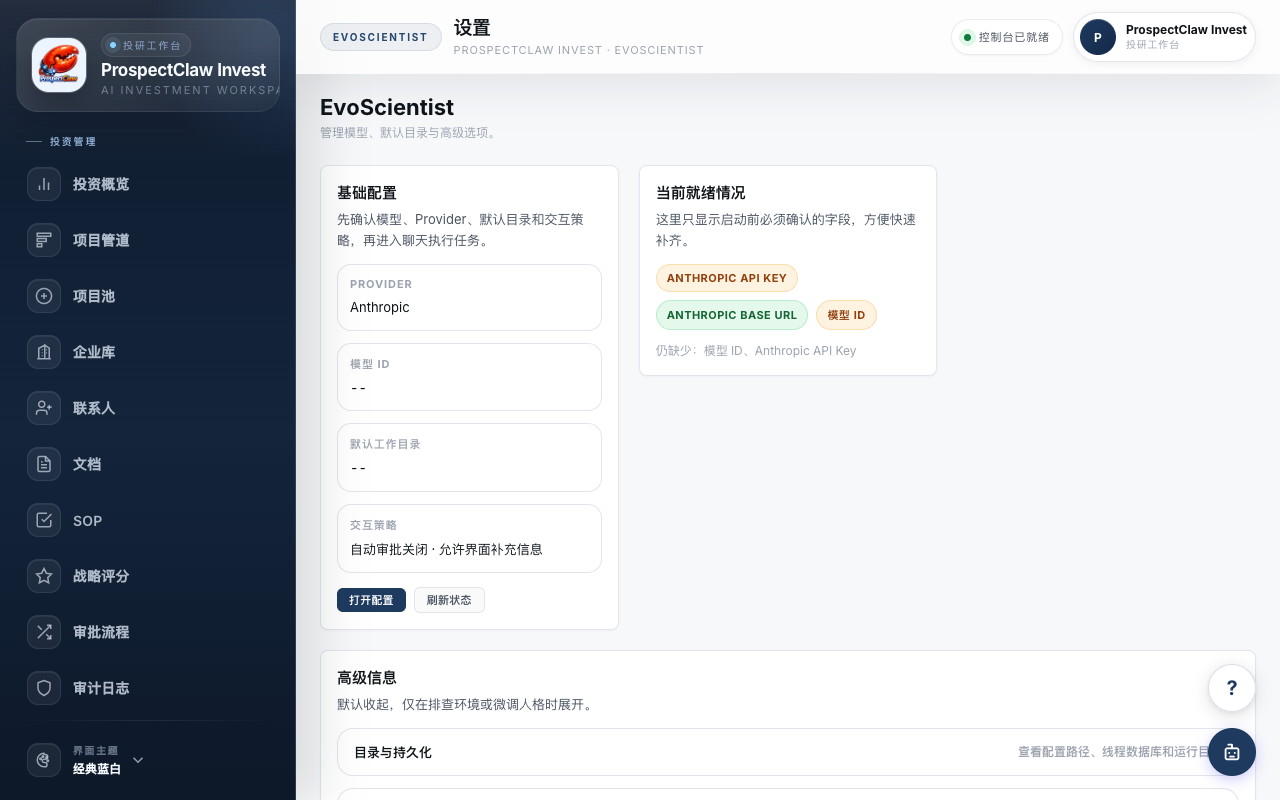
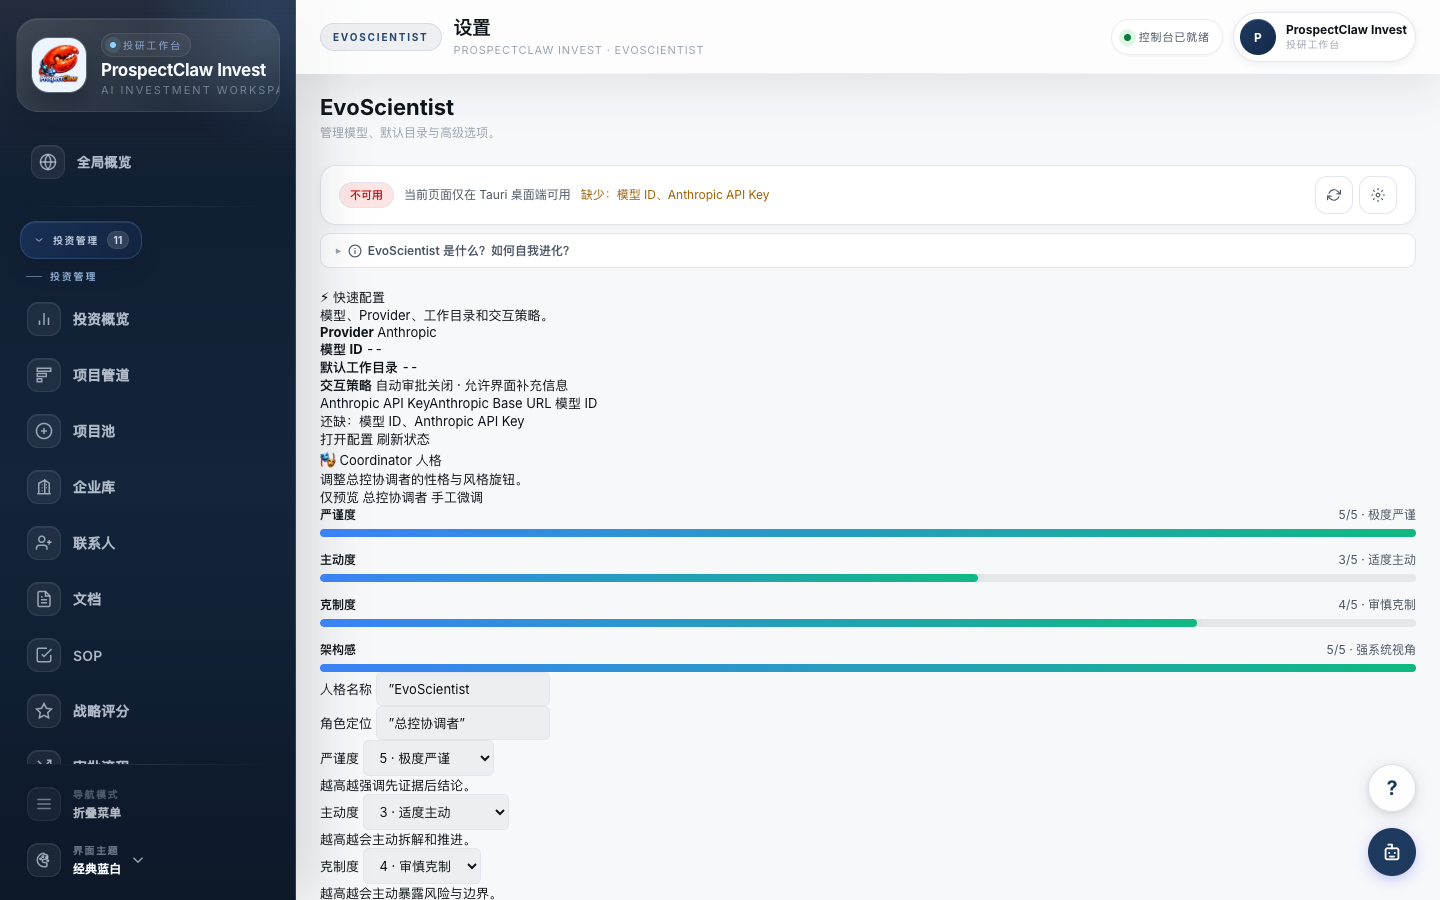
refactor: remove Star Office showcase rows, update EvoScientist screenshots
- index.html: remove Star Office detailed showcase row (kept in features card)
- usage-guide.html: remove Star Office dedicated section with deploy guide
- Update all 4 EvoScientist screenshots (workbench/chat/settings/architecture)
  with latest UI showing agent identity badges and export panel

diff --git a/usage-guide.html b/usage-guide.html
@@ -762,41 +762,6 @@
   </div>
 </section>
 
-<!-- ═══════ Star Office 像素看板 ═══════ -->
-<section class="section" id="star-office" style="background: var(--p-bg-alt);">
-  <div class="container">
-    <div class="section-header reveal">
-      <div class="section-tag">Star Office · v1.1.5+</div>
-      <h2 class="section-title">Star Office — 像素风 AI 办公室</h2>
-      <p class="section-subtitle">将 Agent 工作状态可视化为像素角色动画，让 AI 运作变得可见。</p>
-    </div>
-    <div class="showcase-row reveal">
-      <div class="showcase-text">
-        <div class="showcase-label">Pixel AI Dashboard</div>
-        <h3 class="showcase-title">连接 Star-Office-UI</h3>
-        <p class="showcase-desc">
-          Star Office 通过 iframe 嵌入你自行部署的 Star-Office-UI 实例。需要先在本地或服务器部署 Star-Office-UI（Python 3.10+），然后在设置页填写访问地址即可连接。Agent 的在线状态、任务进度会以像素角色的方式实时呈现。
-        </p>
-        <div class="showcase-chips">
-          <span class="chip">像素角色动画</span>
-          <span class="chip">Agent 状态实时显示</span>
-          <span class="chip">自托管 · 数据不出去</span>
-        </div>
-        <div class="guide-callout" style="margin-top: 16px;">
-          <div class="guide-callout-title">快速部署 Star-Office-UI</div>
-          <p>需要 Python 3.10+：<br><code>git clone https://github.com/ringhyacinth/Star-Office-UI.git</code><br>
-          <code>cd Star-Office-UI && pip install -r backend/requirements.txt</code><br>
-          <code>cp state.sample.json state.json && cd backend && python3 app.py</code><br>
-          默认地址：<code>http://127.0.0.1:19000</code></p>
-        </div>
-      </div>
-      <div class="showcase-image" data-lightbox>
-        <img src="/screenshots/desktop-star-office.png" alt="Star Office 配置页">
-      </div>
-    </div>
-  </div>
-</section>
-
 <!-- ═══════ EvoScientist 多科学家协作 ═══════ -->
 <section class="section" id="evoscientist">
   <div class="container">

diff --git a/index.html b/index.html
@@ -449,25 +449,6 @@
         <img src="/screenshots/desktop-gateway.png" alt="Gateway">
       </div>
     </div>
-    <!-- Star Office 像素看板 -->
-    <div class="showcase-row reveal">
-      <div class="showcase-text">
-        <div class="showcase-label">Star Office · Pixel AI Dashboard</div>
-        <h3 class="showcase-title">Star Office — 像素风 AI 办公室看板</h3>
-        <p class="showcase-desc">
-          把 Agent 的工作状态可视化为像素角色在办公室中的实时动画。通过 iframe 嵌入自托管的 Star-Office-UI，让 AI 工作流变得可见、有趣。支持自定义部署地址，一键连接。
-        </p>
-        <div class="showcase-chips">
-          <span class="chip">像素角色动画</span>
-          <span class="chip">实时状态可视化</span>
-          <span class="chip">自托管部署</span>
-        </div>
-      </div>
-      <div class="showcase-image" data-lightbox>
-        <img src="/screenshots/desktop-star-office.png" alt="Star Office 像素看板">
-      </div>
-    </div>
-
     <!-- EvoScientist 多科学家协作系统 -->
     <div class="showcase-row reverse reveal">
       <div class="showcase-text">
